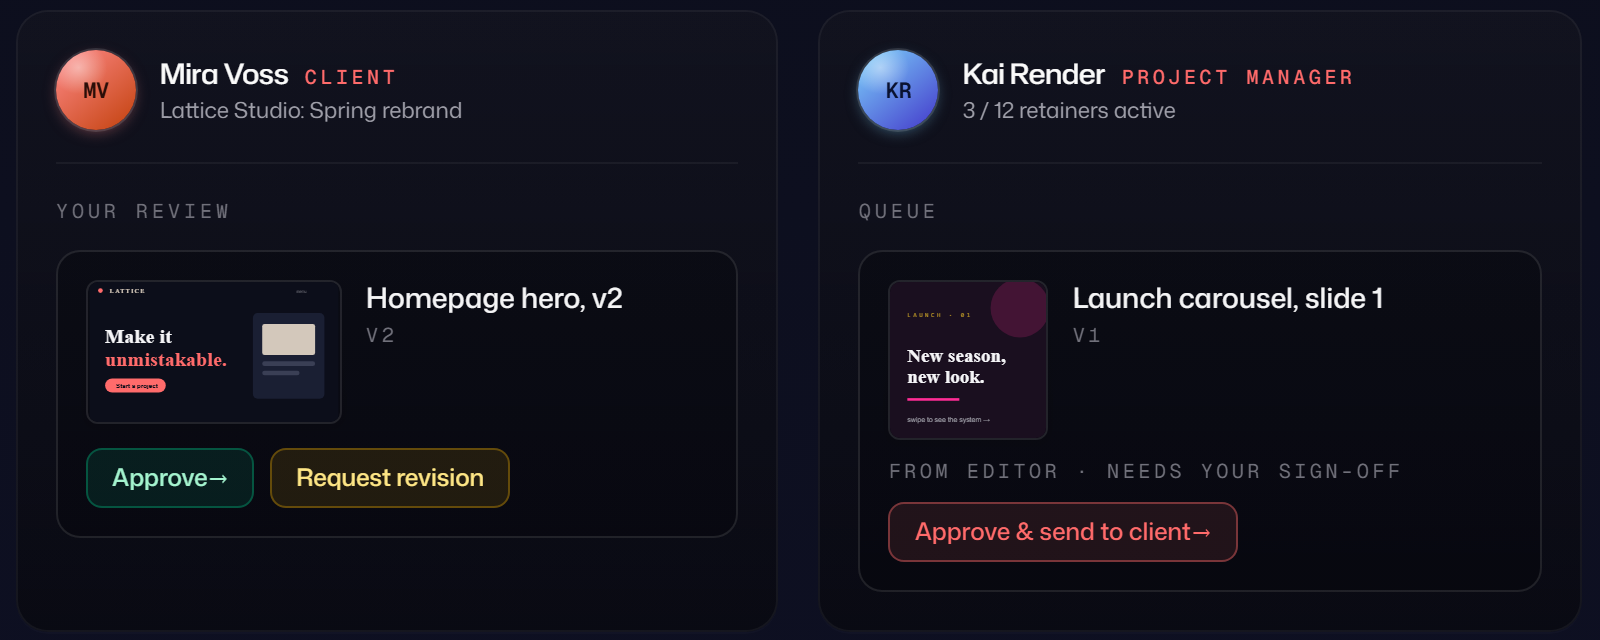
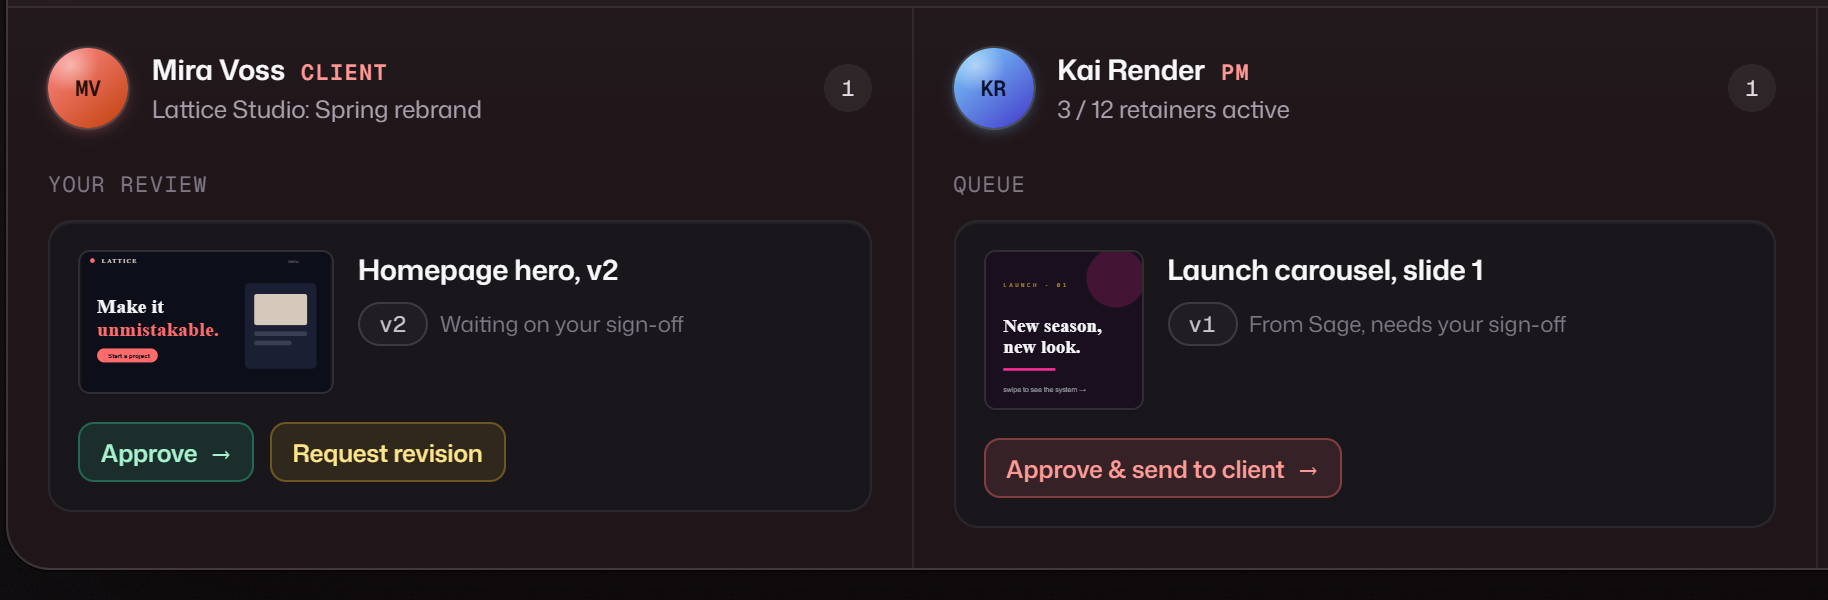
chore(demos): new captures of the redesigned demo, crops from measured geometry (#169)
demo.gravixar.com was rebuilt (Vite + Tailwind + GSAP, a new design for
every scene), so the cards here were advertising a version of the product
that no longer exists.

- public/scenes/*.png: fresh captures, now a 1600x1000 view at 1.5x
  (was 1600x738 at 1x). Studio Mix is staged with ECHO's draft waiting
  for approval and Northbeam with a generated promo, so no card opens on
  an idle panel.
- demos.ts: every crop box re-derived from the demo's measured
  public/scenes/geometry.json (the workspace frame and pane boxes), then
  grown 7% about its centre so .shot-parallax's 1.06 scale no longer
  trims the app's edge. Aspect shapes unchanged (3.7:1 featured, 2.4375:1
  wide, 1.2125:1 narrow).
- Demos.tsx SRC and DemoShot's aspect follow the new capture size.
- services/shots: both 2x figure regions recaptured; Studio Mix gets its
  wide box back now that its capture shows a draft awaiting approval.

diff --git a/src/lib/demos.ts b/src/lib/demos.ts
@@ -10,7 +10,9 @@
 // the demo's own card claims.
 //
 // Screenshots are real captures pulled from the live demo's /scenes/<slug>.png
-// into /public/scenes here, refreshed with the demo repo's `pnpm capture`.
+// into /public/scenes here, refreshed with the demo repo's `pnpm capture:scenes`
+// (which also writes public/scenes/geometry.json there: the measured workspace
+// frame and pane boxes every crop below is derived from).
 // Re-capture whenever the demo has a visual pass, or these cards quietly
 // advertise a version of the product that no longer exists.
 //
@@ -45,28 +47,27 @@ export type DemoScene = {
 };
 
 /**
- * A region of a scene capture, in the capture's own pixels (every capture is
- * 1600x738, see Demos.tsx). The frame on the card shows exactly this box, so
- * the crop IS the picture: pick the working board, never the scene's intro
- * copy (its eyebrow, headline and paragraph are the demo describing itself,
- * and as a picture of text they read as noise at card size).
+ * A region of a scene capture, in the capture's own CSS pixels (every capture
+ * is a 1600x1000 view, stored at 1.5x, see Demos.tsx). The frame on the card
+ * shows exactly this box, so the crop IS the picture: the scene's workspace
+ * (its app window), never the scene's intro copy above it.
  *
- * `wide` is used from md up, `narrow` on phones, where one column of the app
- * renders close to 1:1 and stays readable. Shapes are shared on purpose:
+ * Boxes come from the demo's measured geometry (public/scenes/geometry.json
+ * in gravixar-demo), not from eyeballing: each wraps the workspace frame or a
+ * pane, then grows 7% about its centre, because .shot-parallax scales the
+ * picture 1.06 inside the frame and would otherwise trim the app's own edge.
+ * `wide` is used from md up, `narrow` on phones. Shapes are shared on purpose:
  *   - the first scene is the featured card, and its wide box is the whole
- *     board (about 3.7:1), the three columns with their action buttons;
- *   - every other wide box is 780x320, so the 2x2 grid's frames on /demos
- *     line up;
- *   - every narrow box is 388x320. The homepage's follower rows use the
- *     narrow box at EVERY width (a 240px thumbnail beside each row), because
- *     one column at 0.6x still reads as an app where a whole board at 0.3x
- *     reads as noise.
+ *     board (3.7:1), all three panes with their action buttons;
+ *   - every other wide box is 2.4375:1 (the old 780x320), two panes of the
+ *     board, so the 2x2 grid's frames on /demos line up;
+ *   - every narrow box is 1.2125:1 (the old 388x320), one pane. The homepage's
+ *     follower rows use the narrow box at EVERY width.
  * Keep the Approve-style controls above about 85% of the box height: the
- * frame dissolves into the page over its last 10%.
- * No box may open on a sentence fragment. A box whose left edge lands inside
- * a line of the demo's own copy (Care Ledger's ARCHITECTURE strip, a panel's
- * mono subhead) reads as a broken product, so start at the line's first word.
- * Re-check each box by eye after every `pnpm capture` in the demo repo.
+ * frame dissolves into the page over its last 10%. Two captures are staged by
+ * the demo's capture script so their pane shows work rather than an idle
+ * panel: Studio Mix has run ECHO (a draft waiting for approval), Northbeam has
+ * generated the spring promo. Re-check each box by eye after a re-capture.
  */
 export type CropBox = { x: number; y: number; w: number; h: number };
 
@@ -82,8 +83,9 @@ export const DEMO_SCENES: DemoScene[] = [
     openLabel: "Open the OS",
     shot: "/scenes/lattice.png",
     crop: {
-      wide: { x: 196, y: 385, w: 1208, h: 330 },
-      narrow: { x: 200, y: 392, w: 388, h: 320 },
+      // The whole review board: client, PM and editor panes.
+      wide: { x: 64, y: 364, w: 1472, h: 398 },
+      narrow: { x: 101, y: 416, w: 492, h: 407 },
     },
   },
   {
@@ -97,11 +99,9 @@ export const DEMO_SCENES: DemoScene[] = [
     openLabel: "Open the console",
     shot: "/scenes/studio-mix.png",
     crop: {
-      // The output panel and the audit log, so the wide frame carries logged
-      // work instead of opening on the idle output panel alone. x 600, not
-      // 612: at 612 the panel's "NO RUN YET" subhead is cut to "UN YET".
-      wide: { x: 600, y: 418, w: 780, h: 320 },
-      narrow: { x: 172, y: 418, w: 388, h: 320 },
+      // Wide: the agents pane and ECHO's draft waiting for approval. Narrow: the draft with Approve & publish.
+      wide: { x: 82, y: 412, w: 1017, h: 417 },
+      narrow: { x: 485, y: 454, w: 610, h: 503 },
     },
   },
   {
@@ -115,8 +115,9 @@ export const DEMO_SCENES: DemoScene[] = [
     openLabel: "Open the cockpit",
     shot: "/scenes/cockpit.png",
     crop: {
-      wide: { x: 200, y: 346, w: 780, h: 320 },
-      narrow: { x: 605, y: 346, w: 388, h: 320 },
+      // Wide: inbox and today. Narrow: today, the draft waiting on Approve & send.
+      wide: { x: 84, y: 368, w: 997, h: 409 },
+      narrow: { x: 534, y: 416, w: 530, h: 437 },
     },
   },
   {
@@ -130,8 +131,9 @@ export const DEMO_SCENES: DemoScene[] = [
     openLabel: "Open the workspace",
     shot: "/scenes/northbeam.png",
     crop: {
-      wide: { x: 590, y: 395, w: 780, h: 320 },
-      narrow: { x: 1010, y: 395, w: 388, h: 320 },
+      // Wide: the briefs and the generated promo. Narrow: the promo itself.
+      wide: { x: 82, y: 367, w: 1038, h: 426 },
+      narrow: { x: 495, y: 414, w: 610, h: 503 },
     },
   },
   {
@@ -147,14 +149,9 @@ export const DEMO_SCENES: DemoScene[] = [
     openLabel: "Open the portal",
     shot: "/scenes/care-ledger.png",
     crop: {
-      // x 208 is the ARCHITECTURE strip's left edge, so both frames read it
-      // from its first words ("No PHI in the portal...") and show the
-      // Credentialing column. Any box that sits right of it opened on a
-      // fragment ("; patient records stay", "rtal moves money"). The capture
-      // is 738px tall and the strip covers y 408 to 478, so no 320px box can
-      // skip it: the lasting fix is a re-capture scrolled past the strip.
-      wide: { x: 208, y: 410, w: 780, h: 320 },
-      narrow: { x: 208, y: 410, w: 388, h: 320 },
+      // Wide: credentialing and the billing gate. Narrow: a provider's credential chips and Verify & credential.
+      wide: { x: 84, y: 384, w: 996, h: 409 },
+      narrow: { x: 100, y: 432, w: 530, h: 437 },
     },
   },
 ];

diff --git a/src/components/services/DemoFigure.tsx b/src/components/services/DemoFigure.tsx
@@ -13,13 +13,13 @@ import studioMixShot from "./shots/studio-mix-2x.png";
 // comment, {/* demo-shot */}, so the article decides where the picture sits
 // (see splitAtMarkers in ./body).
 //
-// THE PIXELS ARE LOCAL, AT 2x. The shared captures in /public/scenes are 1x
-// (1600x738), and a 388px phone crop of them rendered about 1.8x upscaled on a
-// 2x phone: card titles and the Approve buttons went soft. ./shots holds only
-// the region each figure shows, captured from the live demo at 1600x738 CSS
-// and deviceScaleFactor 2 (so every box below is in the same 1x coordinates
-// as demos.ts, doubled in the file), with the demo's pulsing hint ring parked
-// in its invisible phase to match the shared captures. A figure owns its boxes
+// THE PIXELS ARE LOCAL, AT 2x. The shared captures in /public/scenes are
+// 1.5x, and a phone crop of them rendered upscaled on a 2x phone: card titles
+// and the Approve buttons went soft. ./shots holds only the region each figure
+// shows, captured from the live demo at a 1600x1000 CSS view and
+// deviceScaleFactor 2 (so every box below is in 1x CSS pixels of that region,
+// doubled in the file), with the demo's pulsing hint ring parked in its
+// invisible phase. A figure owns its boxes
 // and its pixels together, so a re-capture of /public/scenes can never slide a
 // box off these files. The scene's name, brand and address still come from
 // demos.ts. Re-capture ./shots when the demo has a visual pass.
@@ -30,11 +30,9 @@ import studioMixShot from "./shots/studio-mix-2x.png";
 //
 // A figure with no wide box shows its phone crop at every width, capped near
 // the crop's own width so it is never stretched across the reading column.
-// Studio Mix is that case: its wide box was half the empty output pane ("No
-// run yet"), a picture of nothing on the page that argues a person approves.
-// The agents column alone (Echo: "Lands in review, never auto-published")
-// makes the point. When a capture with a draft waiting for approval exists,
-// give it a wide box again.
+// Studio Mix used to be that case (its output pane was empty); its capture is
+// now staged with ECHO's draft waiting for approval, so it has a wide box
+// again: the agents pane beside the draft and its Approve & publish.
 //
 // The frame is a link to the live scene. Hover brightens its edge and draws
 // the caption's underline; nothing lifts, so the column never shifts.
@@ -50,26 +48,27 @@ type Figure = {
 };
 
 const FIGURES: Record<string, Figure> = {
-  // Region x 200..1000, y 392..712 of the Lattice board: the client and
-  // project-manager columns, a review card with Approve and Request revision,
+  // Region x 117..1031, y 430..730 of the Lattice view: the client and
+  // project-manager panes, a review card with Approve and Request revision,
   // and a queue card with Approve & send to client. The article and the proof
   // list call it a portal, and to a non-technical owner "OS" reads as
   // operating system.
   "operations-infrastructure": {
     scene: "lattice",
     shot: latticeShot,
-    region: { w: 800, h: 320 },
-    narrow: { x: 0, y: 0, w: 388, h: 320 },
-    wide: { x: 0, y: 0, w: 800, h: 320 },
+    region: { w: 914, h: 300 },
+    narrow: { x: 0, y: 0, w: 460, h: 300 },
+    wide: { x: 0, y: 0, w: 914, h: 300 },
     label: "Click through the portal",
   },
-  // Region x 172..560, y 418..738 of Studio Mix: the agents column only (Echo
-  // with its Run button). See the note above.
+  // Region x 117..1065, y 474..944 of the staged Studio Mix view: the agents
+  // pane and ECHO's draft waiting on Approve & publish. Phones get the draft.
   "ai-tooling": {
     scene: "studio-mix",
     shot: studioMixShot,
-    region: { w: 388, h: 320 },
-    narrow: { x: 0, y: 0, w: 388, h: 320 },
+    region: { w: 948, h: 470 },
+    narrow: { x: 390, y: 0, w: 558, h: 470 },
+    wide: { x: 0, y: 0, w: 948, h: 470 },
   },
 };
 

diff --git a/src/components/home/Demos.tsx b/src/components/home/Demos.tsx
@@ -25,7 +25,9 @@ import { SITE } from "@/lib/seo";
 // swap at md, so there is one image and no JS.
 //
 // The dissolve starts at 90%, below every box's action buttons.
-const SRC = { w: 1600, h: 738 };
+// Every capture is a 1600x1000 CSS-pixel view of the scene (stored at 1.5x);
+// crop boxes in demos.ts are in these units.
+const SRC = { w: 1600, h: 1000 };
 const pct = (n: number) => `${(n * 100).toFixed(3)}%`;
 
 function cropVars(box: CropBox, key: "n" | "w"): Record<string, string> {
@@ -189,7 +191,8 @@ function SceneCard({
   const { href, address } = sceneLink(scene);
   // The rendered image is the frame width times (capture width / box width).
   // A narrow box is about a quarter of the capture, so on phones the image is
-  // about four frame-widths wide; the optimiser never upscales past 1600.
+  // about four frame-widths wide; the source is 2400px, so the optimiser has
+  // real pixels for it.
   const sizes = featured
     ? "(min-width: 1200px) 1460px, (min-width: 768px) 125vw, 400vw"
     : "(min-width: 1200px) 1090px, (min-width: 768px) 100vw, 400vw";

diff --git a/src/components/work/DemoShot.tsx b/src/components/work/DemoShot.tsx
@@ -33,7 +33,7 @@ export function DemoShot({ scene, href }: { scene: DemoScene; href: string }) {
 
       <figure className="mt-10 hidden sm:block md:mt-12">
         <div className="frame-lit overflow-clip rounded-2xl">
-          <div className="dissolve relative aspect-[1600/738] overflow-clip">
+          <div className="dissolve relative aspect-[1600/1000] overflow-clip">
             <Image
               src={scene.shot}
               alt={`The ${scene.brand} demo on demo.gravixar.com, running on sample data`}
